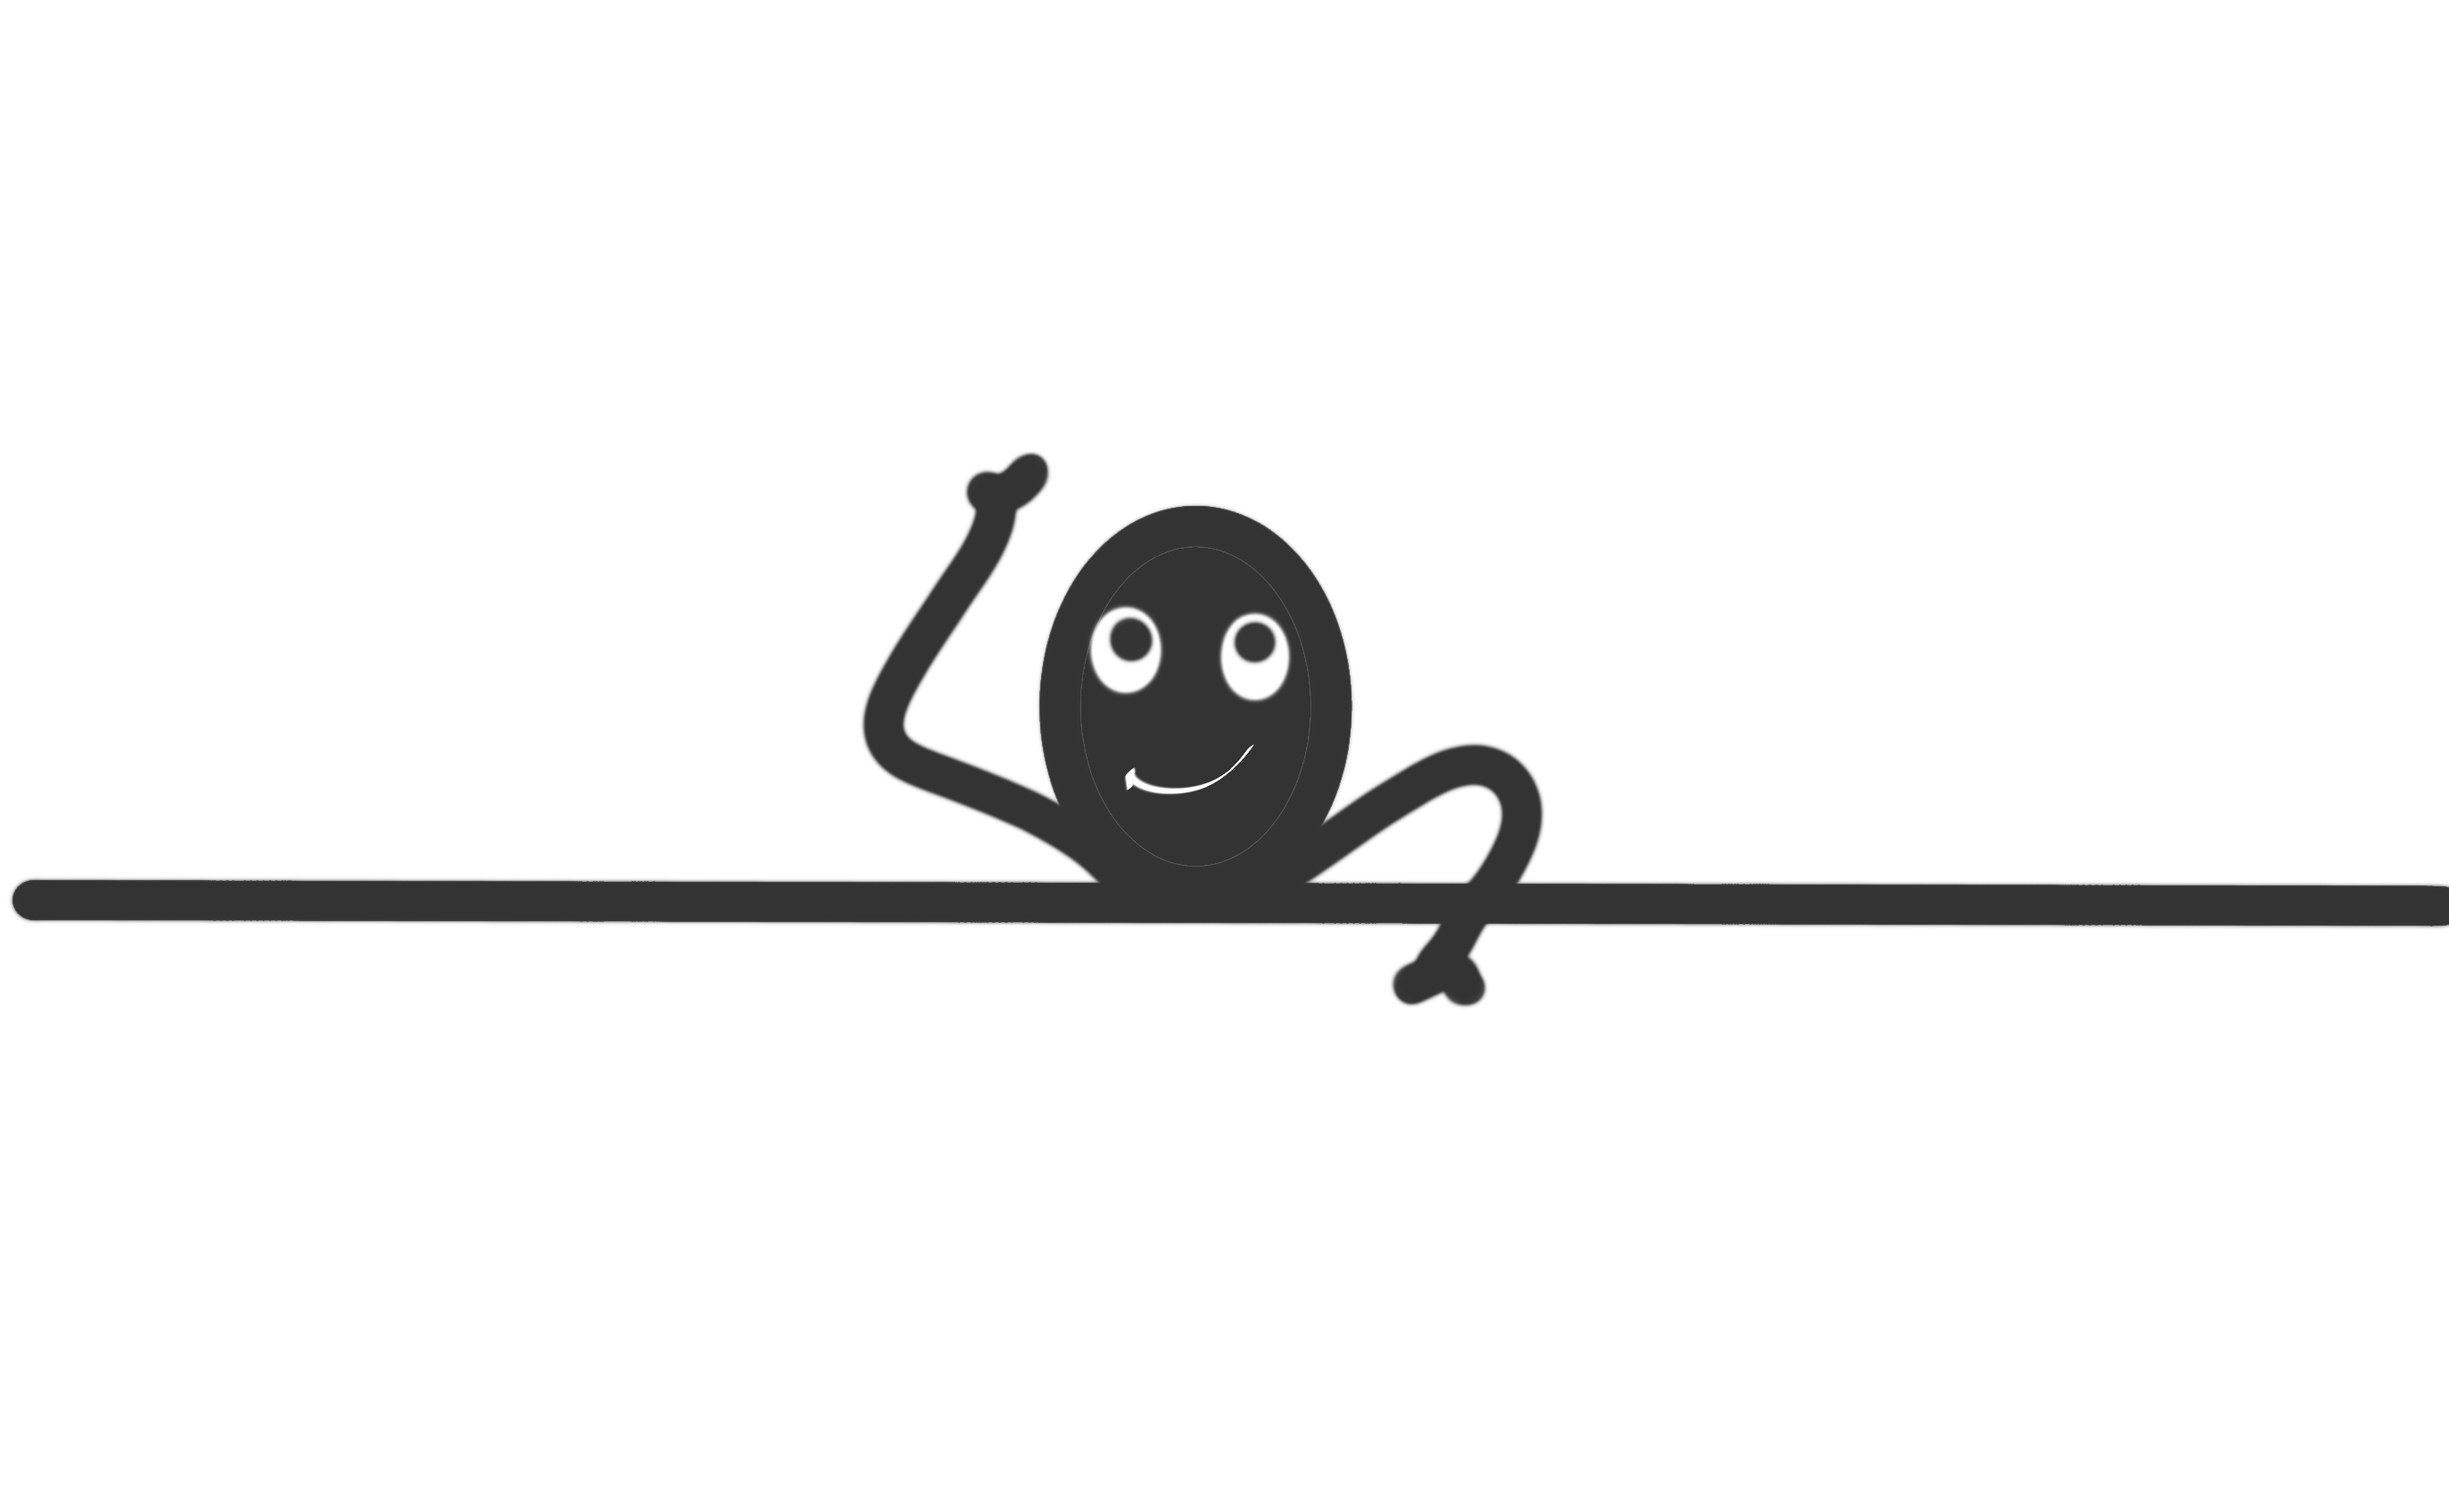
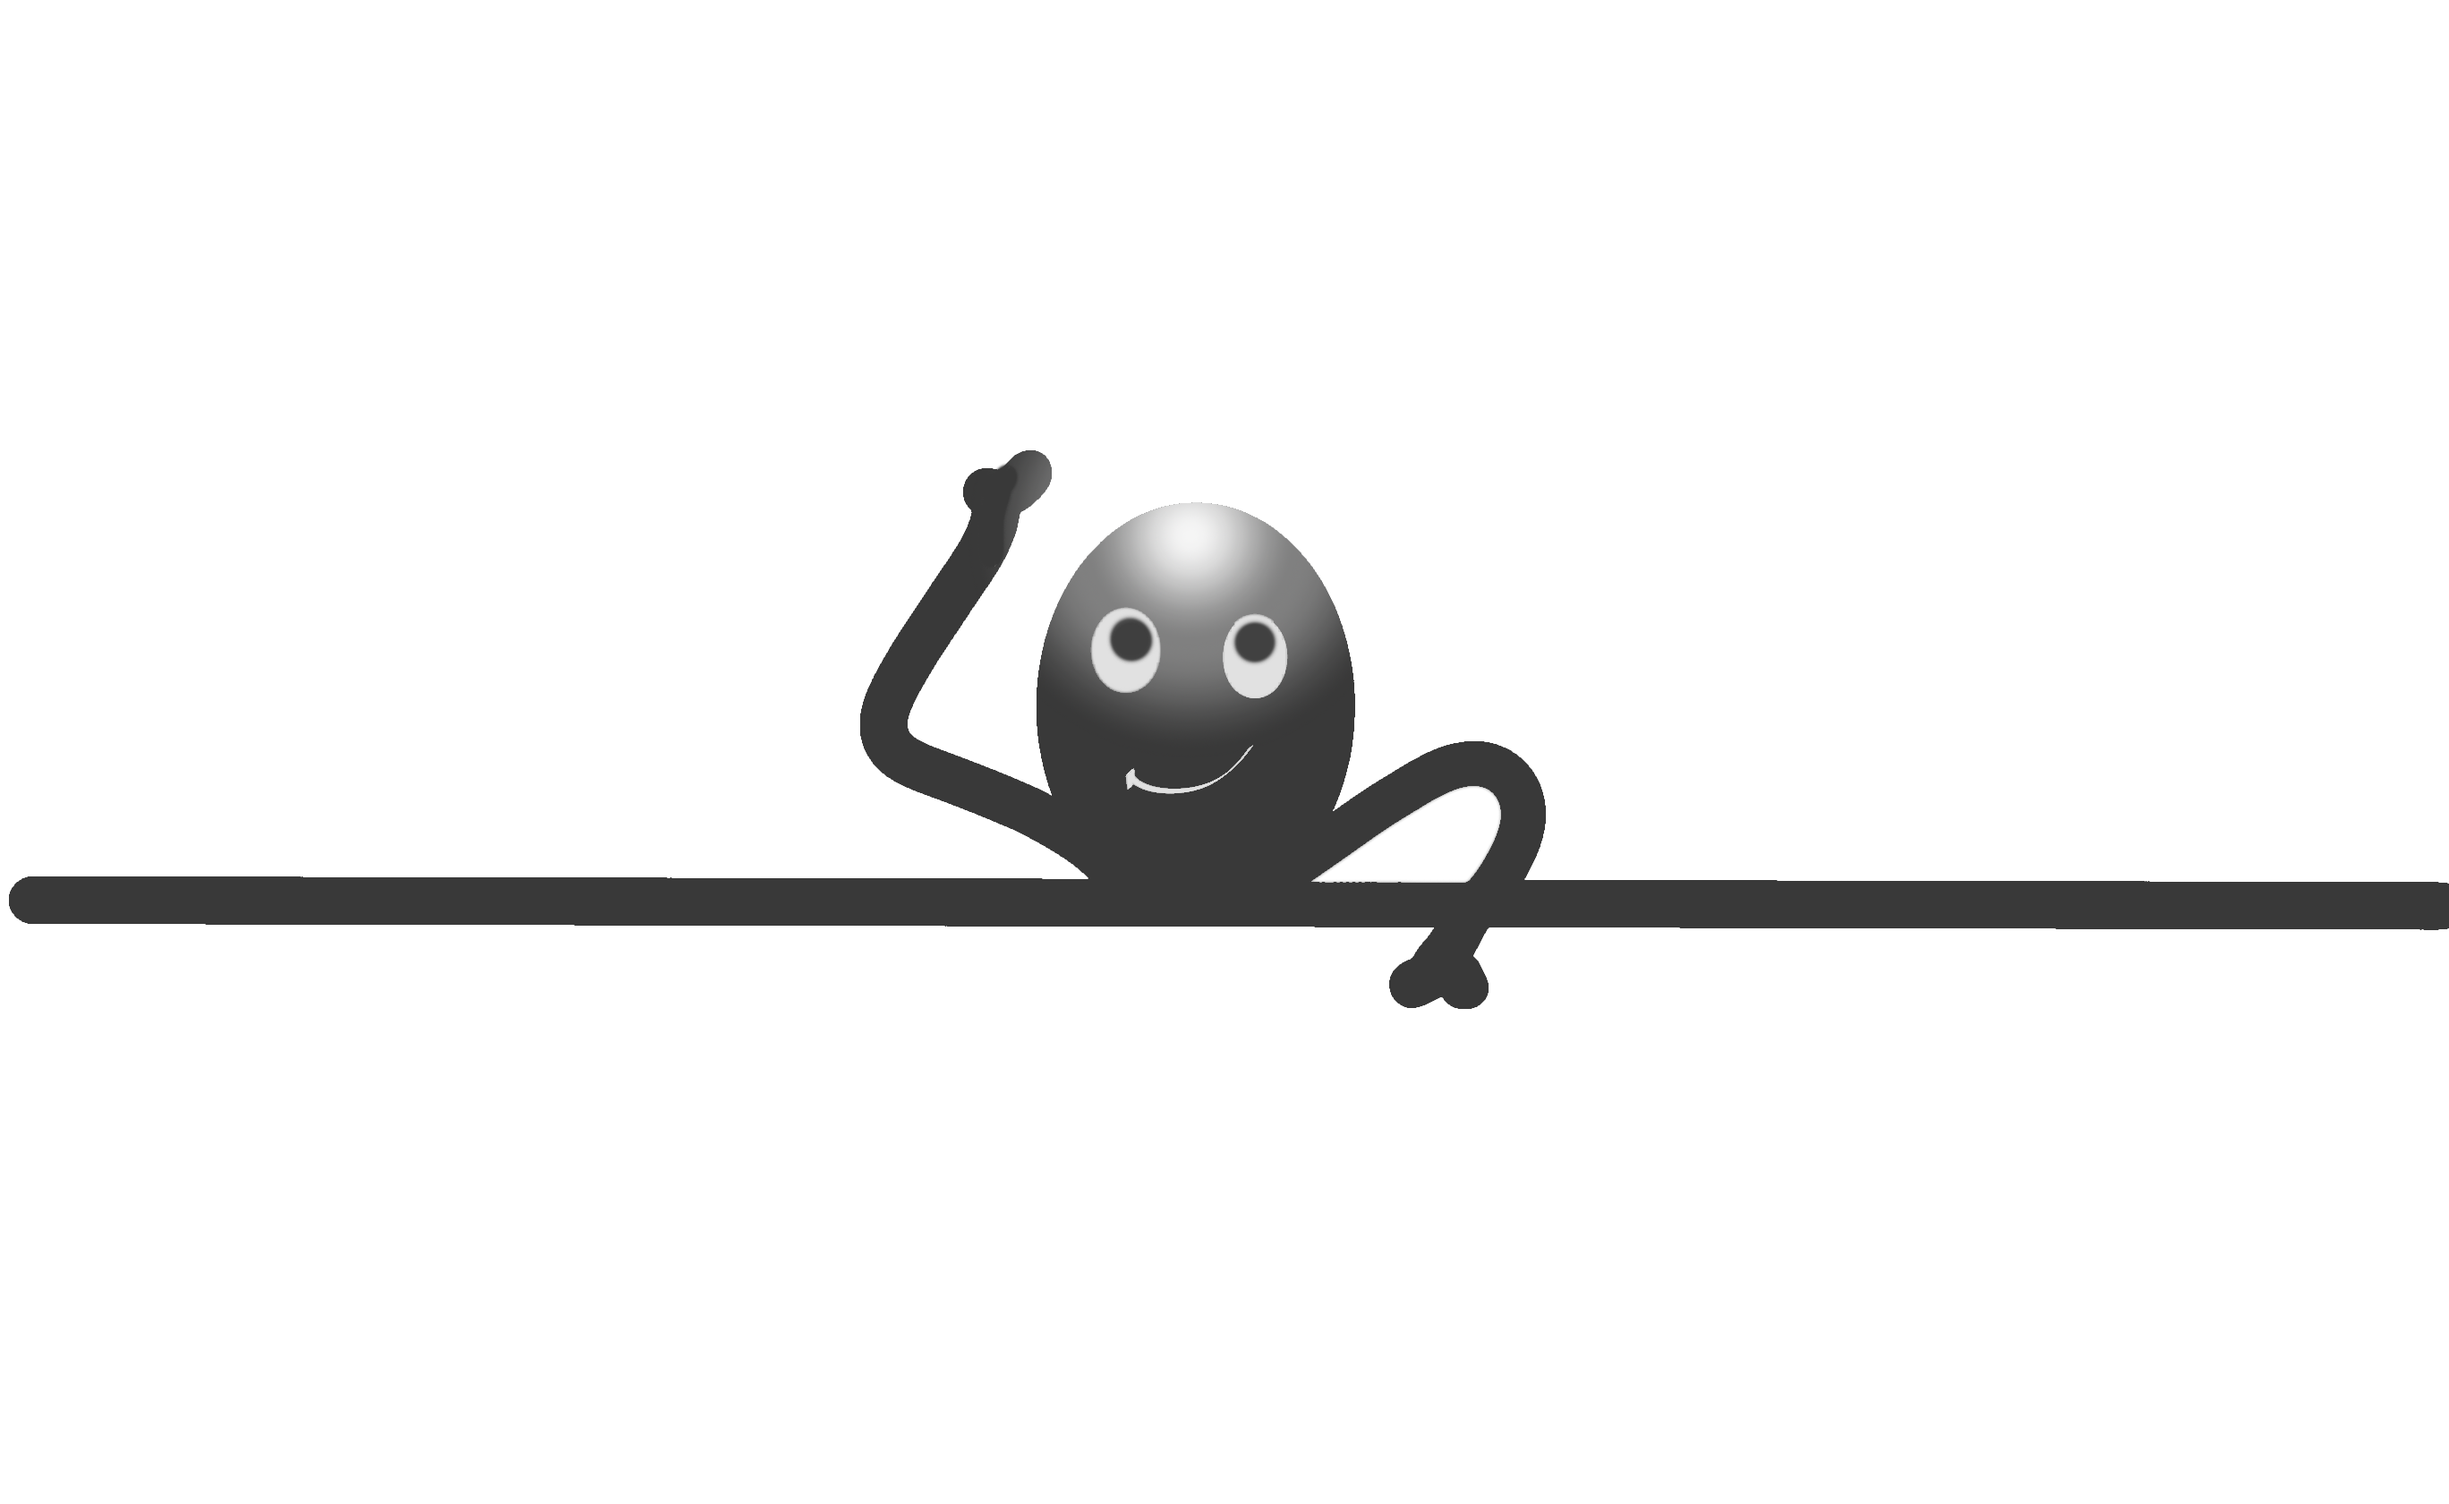
some graphics moppies :-)

diff --git a/resources/views/welcome.blade.php b/resources/views/welcome.blade.php
@@ -2,7 +2,10 @@
 @section('content')
 
 
-@if($errors->any())
+
+
+<div style="margin-top: 75px;">
+    @if($errors->any())
     @foreach ($errors->all() as $error)
 
     <div id="success" class="modal-dialog modal-dialog-centered">
@@ -34,15 +37,10 @@
     @endif
 
     @include('cookieConsent::index') 
-
-
+</div>    
 <!-- Pricing -->
  <div class="container" id="pricing">
-    <div class="row">
-        <div class="mt-2 col-12 text-center">
-            <!--h1 class="display-4">Unser Angebot:</h1-->
-        </div>
-    </div>
+    
     <div class="row">
         <div class="col-12">
             <div class="card-deck mb-3 py-5 text-center">
@@ -53,7 +51,7 @@
                     <div class="card-body py-5">
                         <div class="" style="padding:15px 0 15px 0;background-color:#f0f0f0;text-align: center;">
                                      
-                            <div class=""><span><span class="figure" style="font-size:45px; font-weight:bold">19,90.-</span> 
+                            <div class=""><span><span class="figure" style="font-size:30px; font-weight:bold">19,90.-</span> 
                                 <span class="figure " style="font-size:30px; font-weight:bold">€</span> 
                                 <span class="" style="font-size:30px; font-weight:bold">&nbsp;mtl.</span></span>
                             
@@ -75,7 +73,7 @@
                             <li class="list-group-item py-1 px-5 text-white ">1</li>
                             <li class="list-group-item py-1 px-5 text-white ">1</li>
                             <li class="list-group-item py-1 px-5 text-white ">1</li>
-                            <li class="list-group-item py-1 px-5 text-white ">1</li>
+                            
                         </ul>
                         
                       
@@ -97,7 +95,7 @@
 
                     <div class="" style="padding:15px 0 15px 0;background-color:#f0f0f0;text-align: center;">
                                      
-                                     <div class=""><span><span class="figure" style="font-size:45px; font-weight:bold">35,90.-</span> 
+                                     <div class=""><span><span class="figure" style="font-size:30px; font-weight:bold">35,90.-</span> 
                                          <span class="figure " style="font-size:30px; font-weight:bold">€</span> 
                                          <span class="" style="font-size:30px; font-weight:bold">&nbsp;mtl.</span></span>
                                      
@@ -120,7 +118,7 @@
                     <li class="list-group-item py-1 px-5 text-white ">1</li>
                     <li class="list-group-item py-1 px-5 text-white ">1</li>
                     <li class="list-group-item py-1 px-5 text-white ">1</li>
-                    <li class="list-group-item py-1 px-5 text-white ">1</li>
+                    
                         </ul>
                         
                         <a onclick=input("Page2Rent\u00A0Medium") href="#orderform" class="btn btn-lg btn-block btn-outline-primary">Paket wählen</a>
@@ -138,7 +136,7 @@
                     <div class="card-body py-5">
                         <div class="" style="padding:15px 0 15px 0;background-color:#f0f0f0;text-align: center;">
                                      
-                                     <div class=""><span><span class="figure" style="font-size:45px; font-weight:bold">59,90.-</span> 
+                                     <div class=""><span><span class="figure" style="font-size:30px; font-weight:bold">59,90.-</span> 
                                          <span class="figure " style="font-size:30px; font-weight:bold">€</span> 
                                          <span class="" style="font-size:30px; font-weight:bold">&nbsp;mtl.</span></span>
                                      
@@ -159,7 +157,6 @@
                     <li class="list-group-item py-1 px-5">Eintragung in Suchmaschinen </li>
                     <li class="list-group-item py-1 px-5">Aktives SEO Marketing</li>
                     <li class="list-group-item py-1 px-5">2 Content-Updates <span class="" style="" title="Der Inhalt wird bis zu 2x pro Monat (bis zu 1 Std.) für Sie aktualisiert"><i class="fa fa-info-circle"></i></span></li>
-                    <li class="list-group-item py-1 px-5">Schulung <span class="" style="" title="1 Stunde im Umgang mit der Webseite"><i class="fa fa-info-circle"></i></span></li>
                     <li class="list-group-item py-1 px-5">Sicherheitsupdates</li>
                         </ul>
                         

diff --git a/resources/views/layouts/main.blade.php b/resources/views/layouts/main.blade.php
@@ -27,8 +27,12 @@
     </head>
     <body class="bg">   
        
-                  <nav class="navbar navbar-expand-md navbar-light" style="font-size: 20px; backdrop-filter:blur(3px)">
-                    
+                  <nav class="navbar  fixed-top navbar-expand-md navbar-light" style="font-size: 20px; backdrop-filter:blur(3px)">
+                    <a class="navbar-brand" href="#">
+                      
+                      <img src="{{asset('/public/img/bit.png')}}" width="100" height="65">
+                     
+                    </a>
                     <button class="navbar-toggler" type="button" data-toggle="collapse" data-target="#navbarSupportedContent" aria-controls="navbarSupportedContent" aria-expanded="false" aria-label="Toggle navigation">
                       <span class="navbar-toggler-icon"></span>
                     </button>
@@ -57,19 +61,11 @@
                       
 
                     </div>
-                  </nav>
-                  <div class="container-fluid">
+                  
                     
-                    <div class="row">
-                     
-                        <div class="text-center col-12 ">
-                            <img style="position:absolute; max-width:100px;margin: -105px 0px 0px -50px" class="imageDivCloud" src="{{asset('/public/img/bit.png')}}">
-                           
-                          </div>
-                
-                    </div>  
-                
-                  </div>
+                    
+                  </nav>
+                  
 
 
 

diff --git a/resources/views/layouts/agb.blade.php b/resources/views/layouts/agb.blade.php
@@ -1,7 +1,7 @@
 @extends('layouts.main')
  
 @section('content')
-<div style="margin-bottom: 130px;" class="container text-center">
+<div style="margin-top: 95px; margin-bottom: 130px;" class="container text-center">
     <div class="row justify-content-center">
         <div class="col-12">
             <div class="card">

diff --git a/resources/views/layouts/datenschutz.blade.php b/resources/views/layouts/datenschutz.blade.php
@@ -1,6 +1,6 @@
 @extends('layouts.main')
 @section('content')
-<div style="margin-bottom: 130px;" class="container text-center">
+<div style="margin-top: 95px; margin-bottom: 130px;" class="container text-center">
     <div class="row justify-content-center">
         <div class="col-12">
             <div class="card">

diff --git a/resources/views/layouts/impressum.blade.php b/resources/views/layouts/impressum.blade.php
@@ -1,6 +1,6 @@
 @extends('layouts.main')
 @section('content')
-<div style="margin-bottom: 130px;" class="container text-center">
+<div style="margin-top: 95px; margin-bottom: 130px;" class="container text-center">
     <div class="row justify-content-center">
         <div class="col-12">
             <div class="card">
